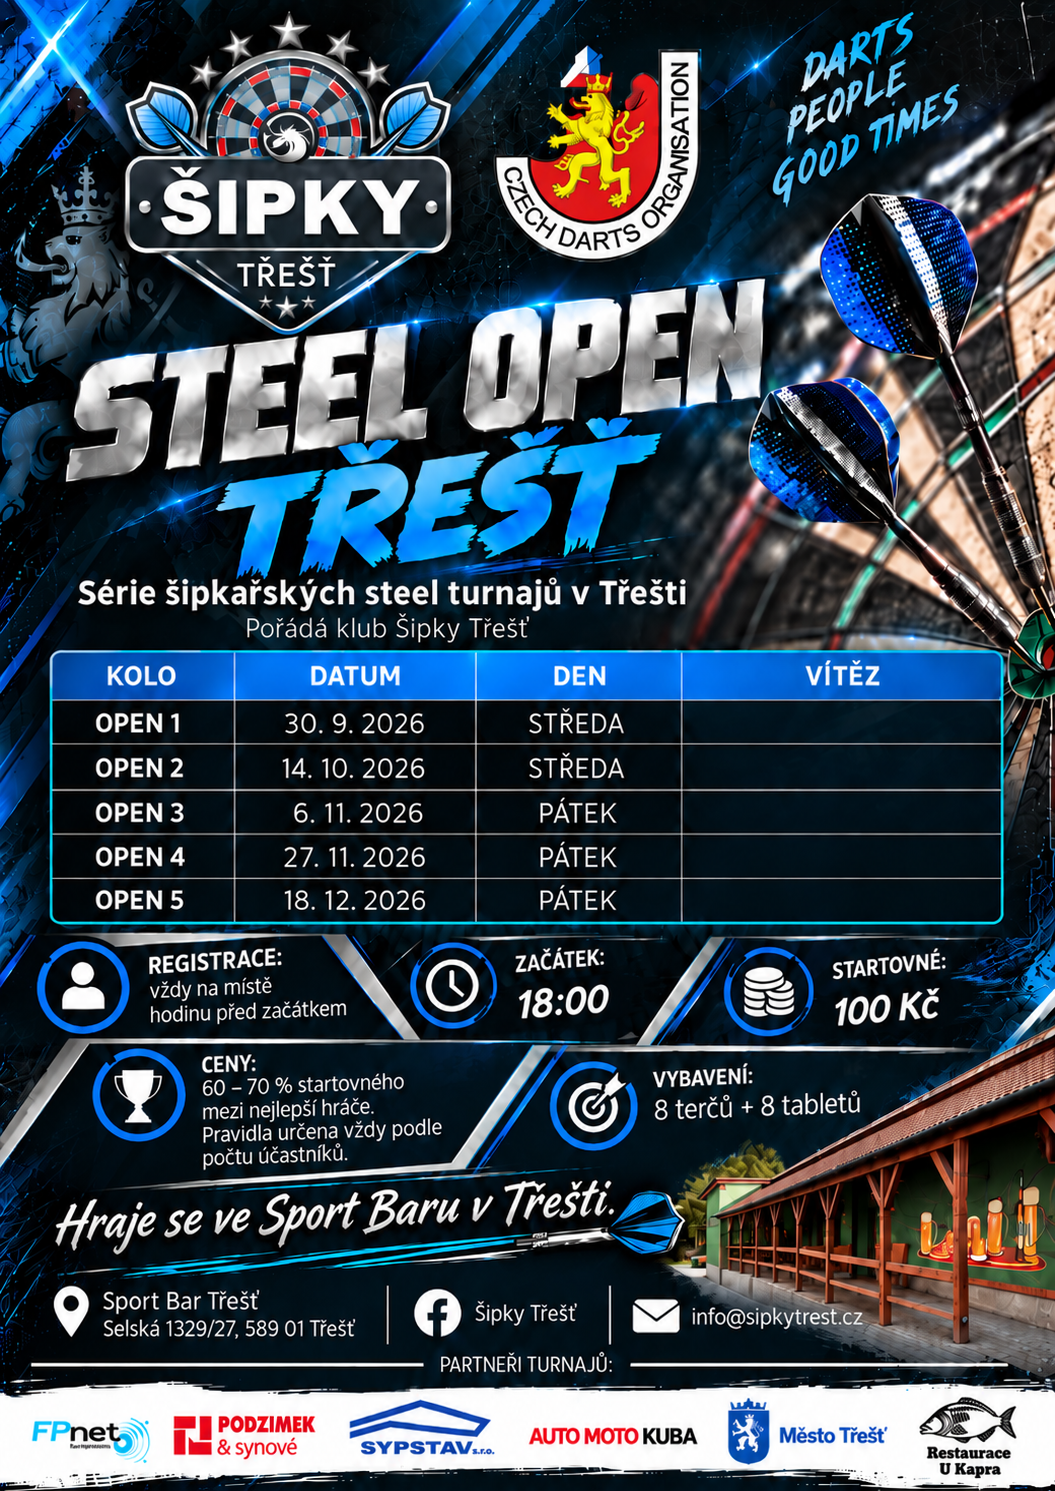
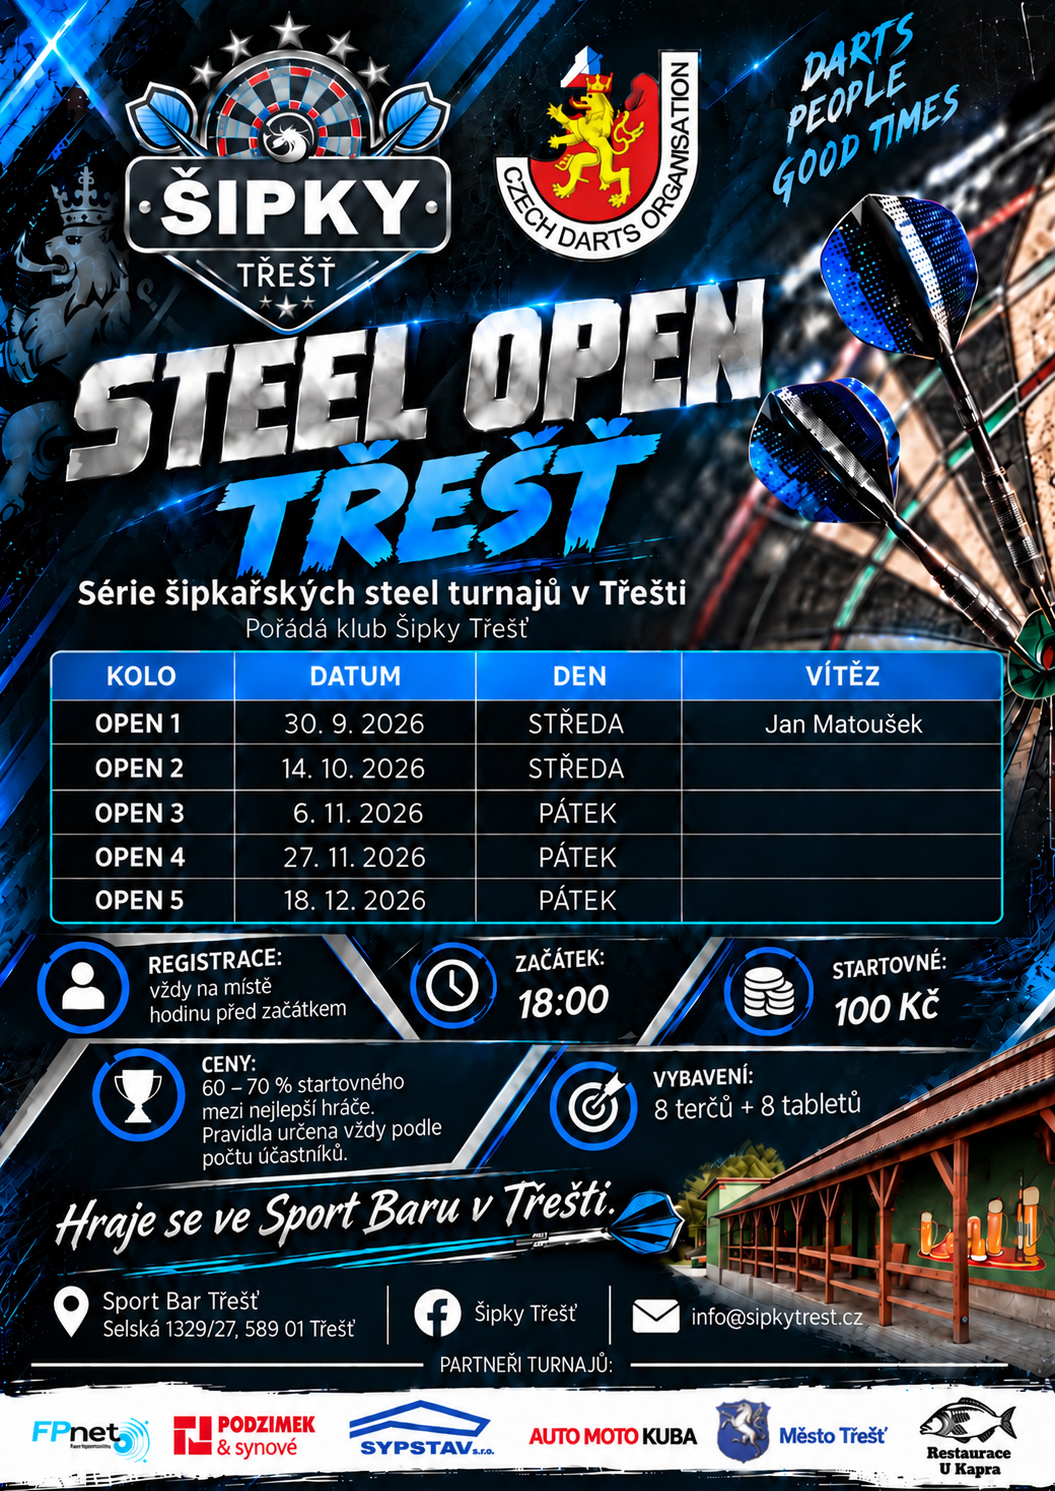
content: update Steel Open winner poster

diff --git a/index.html b/index.html
@@ -80,7 +80,7 @@
     <!-- FEATURE -->
     <section class="section event feature">
         <h2>Nejbližší událost</h2>
-        <img src="img/steel-open-trest-2026.jpg"
+        <img src="img/steel-open-trest-2026.png?v=20261001-2"
              alt="Plakát série Steel Open Třešť 2026"
              class="event-poster" width="1055" height="1491" decoding="async">
     </section>
